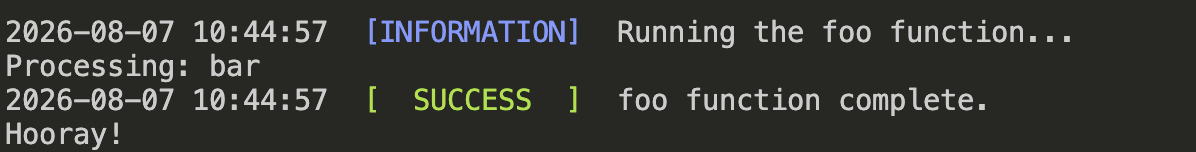
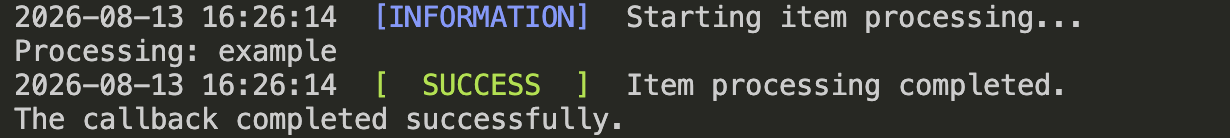
docs: align terminal examples and ANSI color descriptions

Changed region(s): [[0.0, 0.5217, 0.8662, 0.9855], [0.0, 0.029, 0.2784, 0.7246], [0.3094, 0.029, 0.8972, 0.3188]]

diff --git a/README.md b/README.md
@@ -92,6 +92,7 @@ okmsg("This is a success message.")
 warnmsg("This is a warning message.")
 failmsg("This is a failure message.")
 infomsg("This is an information message.")
+defaultmsg("This is a general message.")
 ```
 
 This produces timestamped terminal messages with a color and label appropriate to each message type.
@@ -101,7 +102,7 @@ This produces timestamped terminal messages with a color and label appropriate t
 > active color theme. This example was captured in the VS Code terminal using
 > the Monokai theme.
 
-![Example terminal output](build_docs/src/assets/ptcolors-julia-example.png)
+![Example terminal output](build_docs/src/assets/ptcolors-README-example.png)
 
 The package also provides convenience macros:
 
@@ -142,7 +143,7 @@ end
 
 This produces terminal output similar to the following:
 
-![Callback terminal output](build_docs/src/assets/ptcolors-julia-callback-example.png)
+![Callback terminal output](build_docs/src/assets/ptcolors-foo-function-example.png)
 
 The function returns `0` when the callback succeeds and `1` when it throws an expected exception. Unexpected exceptions are rethrown.
 
@@ -152,11 +153,11 @@ The function returns `0` when the callback succeeds and `1` when it throws an ex
 | ------------ | ------------------------------------------------------ |
 | `timestamp`  | Return the current date and time as a formatted string |
 | `defaultmsg` | Print a standard timestamped message                   |
-| `headermsg`  | Print a magenta header message                         |
-| `infomsg`    | Print a blue information message                       |
-| `okmsg`      | Print a green success message                          |
-| `warnmsg`    | Print a yellow warning message                         |
-| `failmsg`    | Print a red failure message                            |
+| `headermsg`  | Print a bright magenta header message                  |
+| `infomsg`    | Print a bright blue information message                |
+| `okmsg`      | Print a bright green success message                   |
+| `warnmsg`    | Print a bright yellow warning message                  |
+| `failmsg`    | Print a bright red failure message                     |
 | `messages`   | Run a callback with status and failure handling        |
 | `@ptinfo`    | Print an information message                           |
 | `@ptok`      | Print a success message                                |

diff --git a/build_docs/src/index.md b/build_docs/src/index.md
@@ -70,6 +70,7 @@ infomsg("Loading configuration.")
 okmsg("Operation completed successfully.")
 warnmsg("A fallback value is being used.")
 failmsg("The operation failed.")
+defaultmsg("A general status message.")
 ```
 
 Each message includes a timestamp, status label, and corresponding terminal color.
@@ -91,7 +92,7 @@ Each message includes a timestamp, status label, and corresponding terminal colo
 ```@raw html
 <div class="ptcolors-example">
     <img
-        src="assets/ptcolors-julia-example.png"
+        src="assets/ptcolors-julia-terminal-example.png"
         alt="Example PTColors terminal output"
         loading="lazy"
     >
